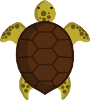
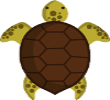
User can now change sprites

diff --git a/TurtleClass.py b/TurtleClass.py
@@ -1,5 +1,5 @@
 import tkinter as tk
-from tkinter import colorchooser, simpledialog
+from tkinter import colorchooser, simpledialog, filedialog
 from PIL import Image, ImageTk
 import pyscreenshot
 import numpy as np
@@ -29,11 +29,15 @@ class Turtle:
         self.fill_colour = "black"
         self.last_fill = None
         self.occupancy = np.array(np.zeros([int((self.canvas.winfo_height()-10)/10)-1, int(self.canvas.winfo_width()/10)-1]),dtype=int)
-        
+
+    def ask_sprite_file(self):
+        filename = filedialog.askopenfilename()
+        self.load_sprite_file(filename)
+        self.load_sprite_canvas() 
 
     def load_sprite_file(self, filename="turtle.png"):
         image = Image.open(filename)
-        self.unrotatedimage = image.resize((30,int(30*image.size[0]/image.size[1])))
+        self.unrotatedimage = image.resize((30,int(30*image.size[1]/image.size[0])))
         self.rotatedimage = self.unrotatedimage
     
     def load_sprite_canvas(self):

diff --git a/main.py b/main.py
@@ -46,6 +46,8 @@ def keypress_manager(event):
         window.destroy()
     elif event.keysym =="g":
         turtle.save_canvas(window.winfo_rootx(),window.winfo_rooty())
+    elif event.keysym =="t":
+        turtle.ask_sprite_file()
 
 def mouse_obs(event):
     turtle.obstacle_mouse(event.x,event.y)

diff --git a/readme.md b/readme.md
@@ -26,6 +26,8 @@ H: Hoover Mode
 
 G: Save image
 
+T: Change turtle sprite - choose a file
+
 Escape: Exit window
 
 
